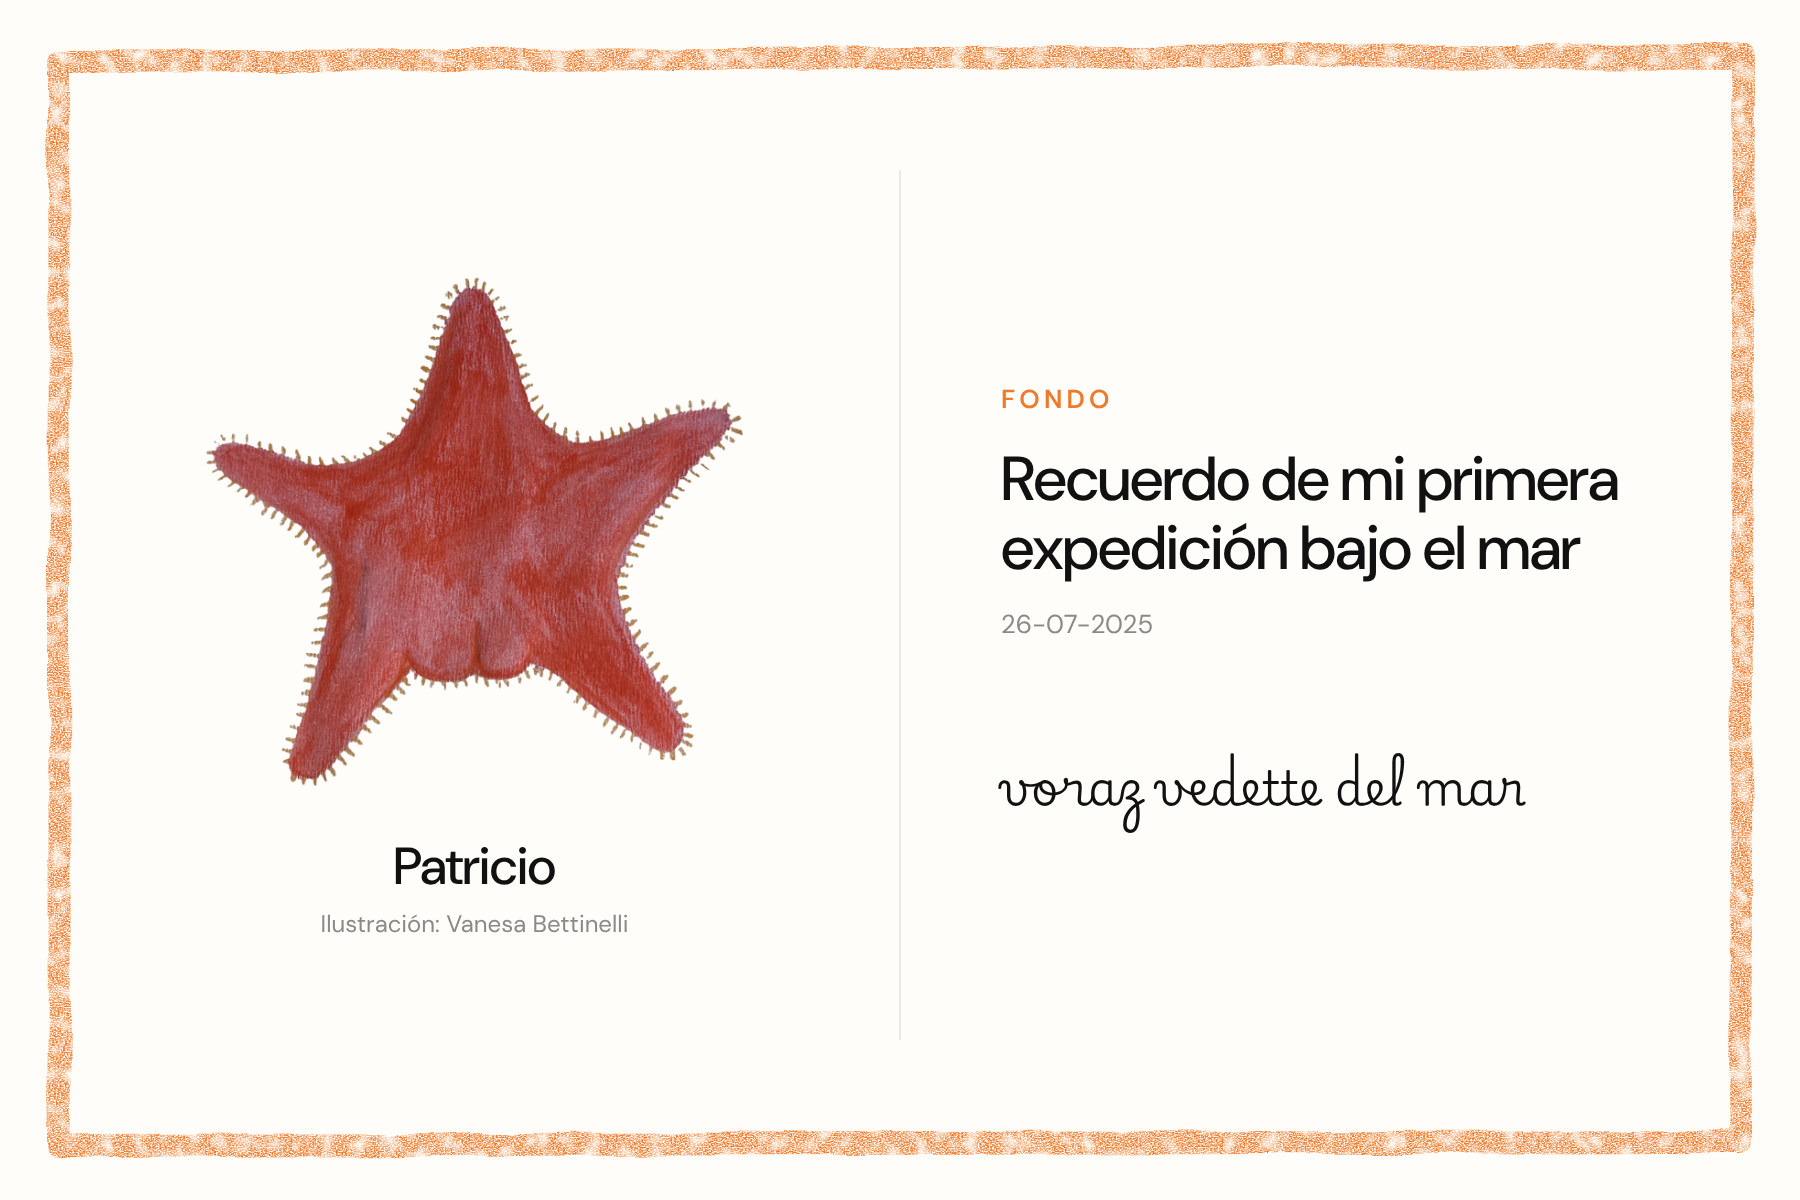
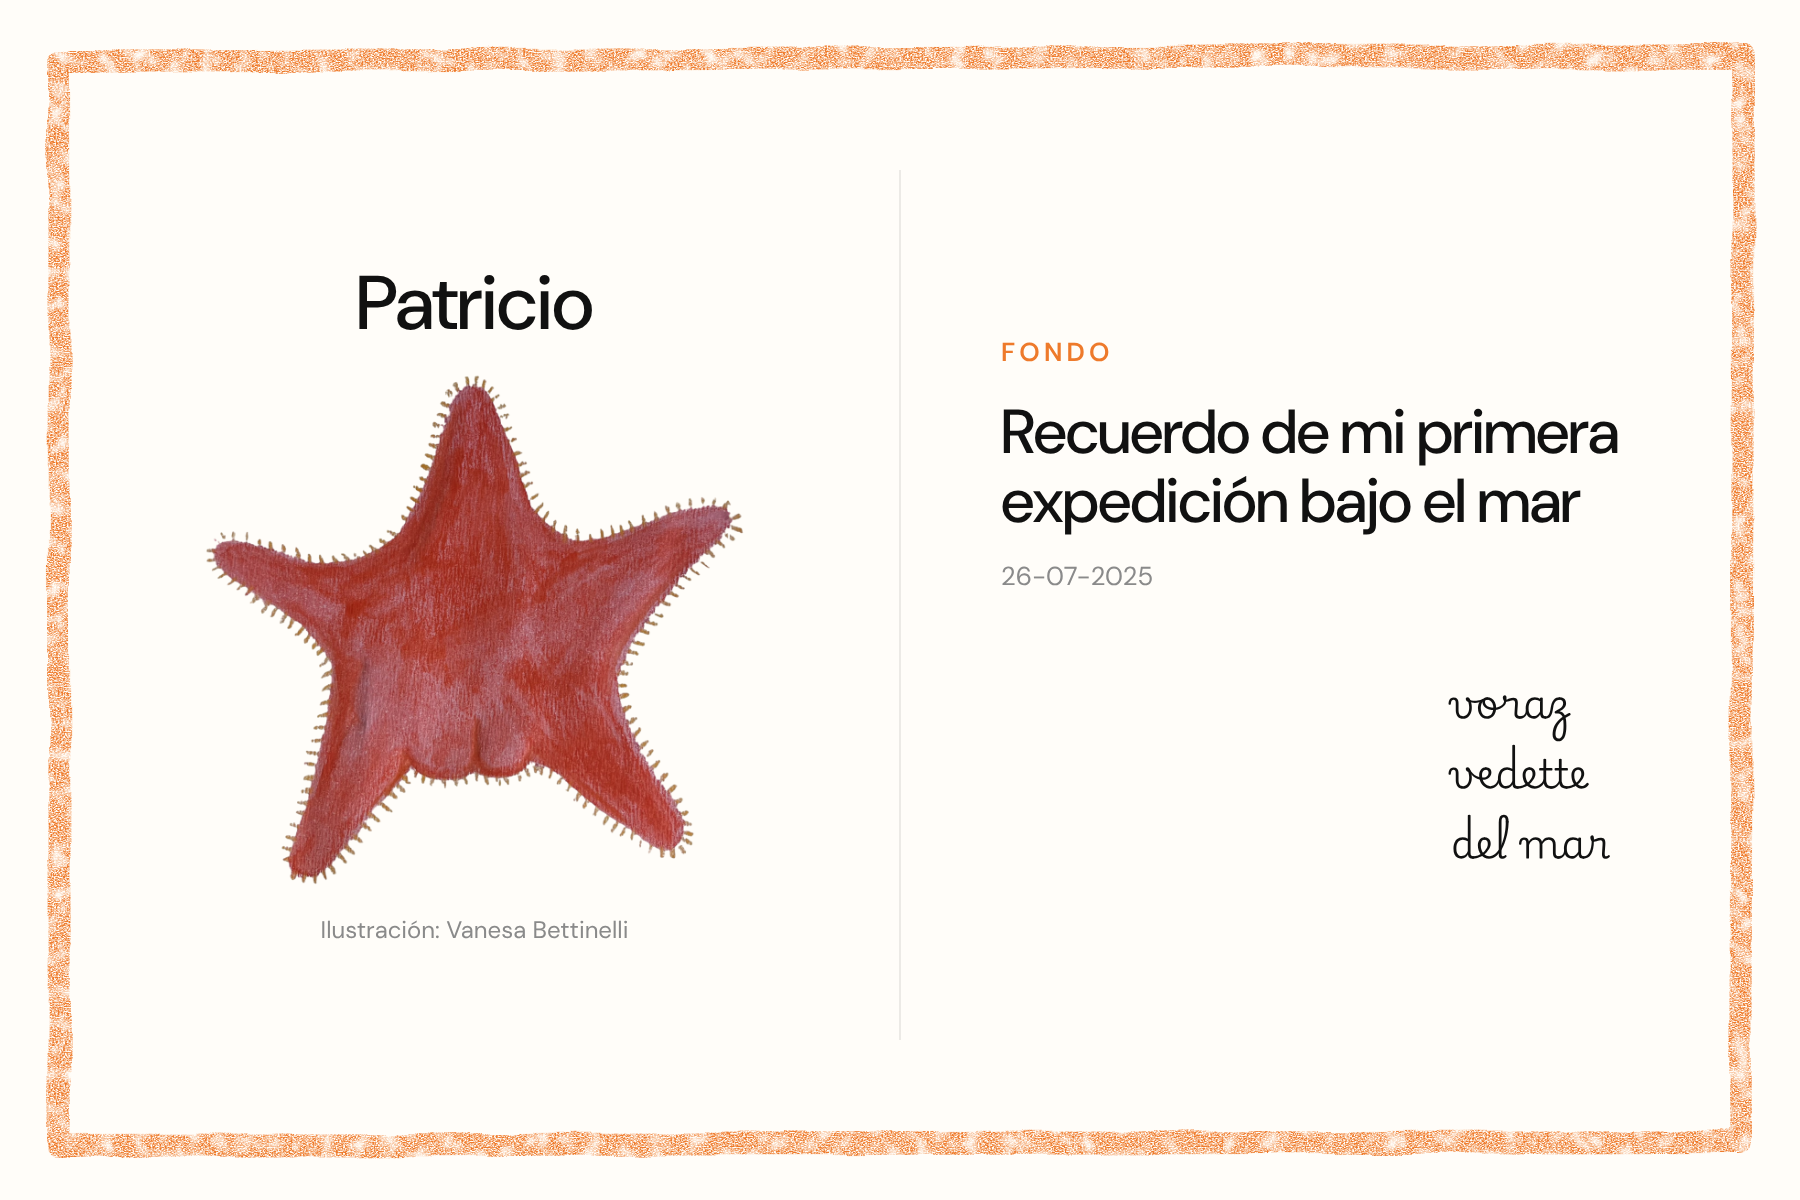
Postcard: verse in three lines off to the side, larger name above the star
Claude-Session: https://claude.ai/code/session_01Qm5YFXMrmpHggq2K32ktW1

diff --git a/bitacora-del-mar/postal-fuente.html b/bitacora-del-mar/postal-fuente.html
@@ -35,7 +35,8 @@
       proyecto: "Fondo",
       titulo: "Recuerdo de mi primera expedición bajo el mar",
       fecha: "26-07-2025",
-      verso: "voraz vedette del mar",
+      // Cada \n es un salto de línea
+      verso: "voraz\nvedette\ndel mar",
 
       nombre: "Patricio",
       ilustracion: "assets/patricio-estrella.png",
@@ -115,15 +116,16 @@
     }
 
     .nombre {
-      margin: 40px 0 0;
+      margin: 0 0 28px;
 
-      font-size: 52px;
+      font-size: 76px;
+      line-height: 1;
       font-weight: 500;
       letter-spacing: -0.01em;
     }
 
     .ilustradora {
-      margin: 8px 0 0;
+      margin: 24px 0 0;
 
       font-size: 24px;
       color: var(--muted);
@@ -174,19 +176,22 @@
       font-variant-numeric: tabular-nums;
     }
 
+    /* El verso va corrido al costado, como una nota escrita a mano */
     .verso {
-      margin: 96px 0 0;
+      align-self: flex-end;
+
+      margin: 72px 40px 0 0;
 
       color: var(--ink);
-      text-wrap: balance;
+      white-space: pre-line;
     }
 
     /* Verso manuscrito: cursiva escolar argentina, como escrito a mano en el dorso */
     body:not([data-verso="imprenta"]) .verso {
       font-family: "Playwrite AR", cursive;
       font-weight: 300;
-      font-size: 48px;
-      line-height: 1.9;
+      font-size: 40px;
+      line-height: 1.75;
     }
 
     /* Verso de imprenta: la misma letra del título */
@@ -237,8 +242,8 @@
 
 
     <div class="lado-ilustracion">
-      <img data-campo="ilustracion" alt="">
       <p class="nombre" data-campo="nombre"></p>
+      <img data-campo="ilustracion" alt="">
       <p class="ilustradora">Ilustración: <span data-campo="ilustradora"></span></p>
     </div>
 

diff --git a/bitacora-del-mar/index.html b/bitacora-del-mar/index.html
@@ -225,7 +225,7 @@
           width="1800"
           height="1200"
           loading="lazy"
-          alt="Postal con borde naranja de crayón. A la izquierda, la estrella de mar Patricio dibujada en rojo, ilustración de Vanesa Bettinelli. A la derecha: Fondo. Recuerdo de mi primera expedición bajo el mar. 26-07-2025. voraz vedette del mar.">
+          alt="Postal con borde naranja de crayón. A la izquierda, la estrella de mar Patricio dibujada en rojo, ilustración de Vanesa Bettinelli. A la derecha: Fondo. Recuerdo de mi primera expedición bajo el mar. 26-07-2025. voraz, vedette, del mar.">
       </figure>
 
       <a
